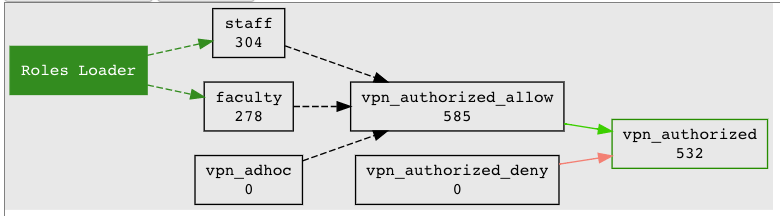
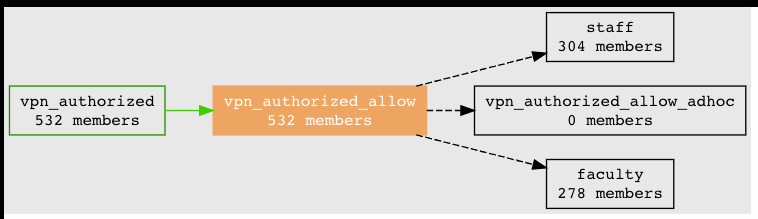
updates for 401

diff --git a/docs/401/401.1.rst b/docs/401/401.1.rst
@@ -146,10 +146,9 @@ contractors, etc.)"
 #. Use the application template and the policy group template to create a new
    `vpn` application folder and policy group called `vpn_authorized`
 
-#. Create a new application specific reference group
-   `app:vpn:service:ref:vpn_adhoc`.
+#. Select the policy template option "create allow ad hoc group"
 
-#. Add `faculty`, `staff`, and `vpn_adhoc` to `vpn_authorized_allow`
+#. Add `faculty`, `staff`, and to `vpn_authorized_allow`
 
 .. figure:: ../figures/401-vpn-policy.png
 
@@ -161,7 +160,8 @@ contractors, etc.)"
 Exercise 401.1.3 Export `vpn_authorized` to OpenLDAP
 ----------------------------------------------------
 
-#. Configure `PSPNG`_ to provision group members to OpenLDAP groupOfNames
+#. Configure `PSPNG`_ to provision group members to OpenLDAP groupOfNames. The
+   following has already been configured for you in grouper-loader.properties.
 
    .. literalinclude:: examples/401.1.3-pspng-config.properties
         :language: properties
@@ -171,7 +171,7 @@ Exercise 401.1.3 Export `vpn_authorized` to OpenLDAP
         :linenos:
 
 2. Mark `vpn_authorized` with the PSPNG `provision_to` attribute with a value
-of `pspng_groupOfNames`.
+   of `pspng_groupOfNames`.
 
 .. figure:: ../figures/401-vpn-provision-to.png
 
@@ -270,7 +270,8 @@ the past is still appropriate.
    * Deceased
    * Other reasons
 
-#. Add `ref:iam:global_deny` to the `vpn_authorized_deny` policy group.
+#. `ref:iam:global_deny` was automatically added to the `vpn_authorized_deny`
+    policy group by the policy template.
 
 #. Add 30 day attestation requirements to the `vpn_ajohnson409` ACL.
    (vpn_ajohnson409 -> More actions -> Attestation -> Attestion actions ->
